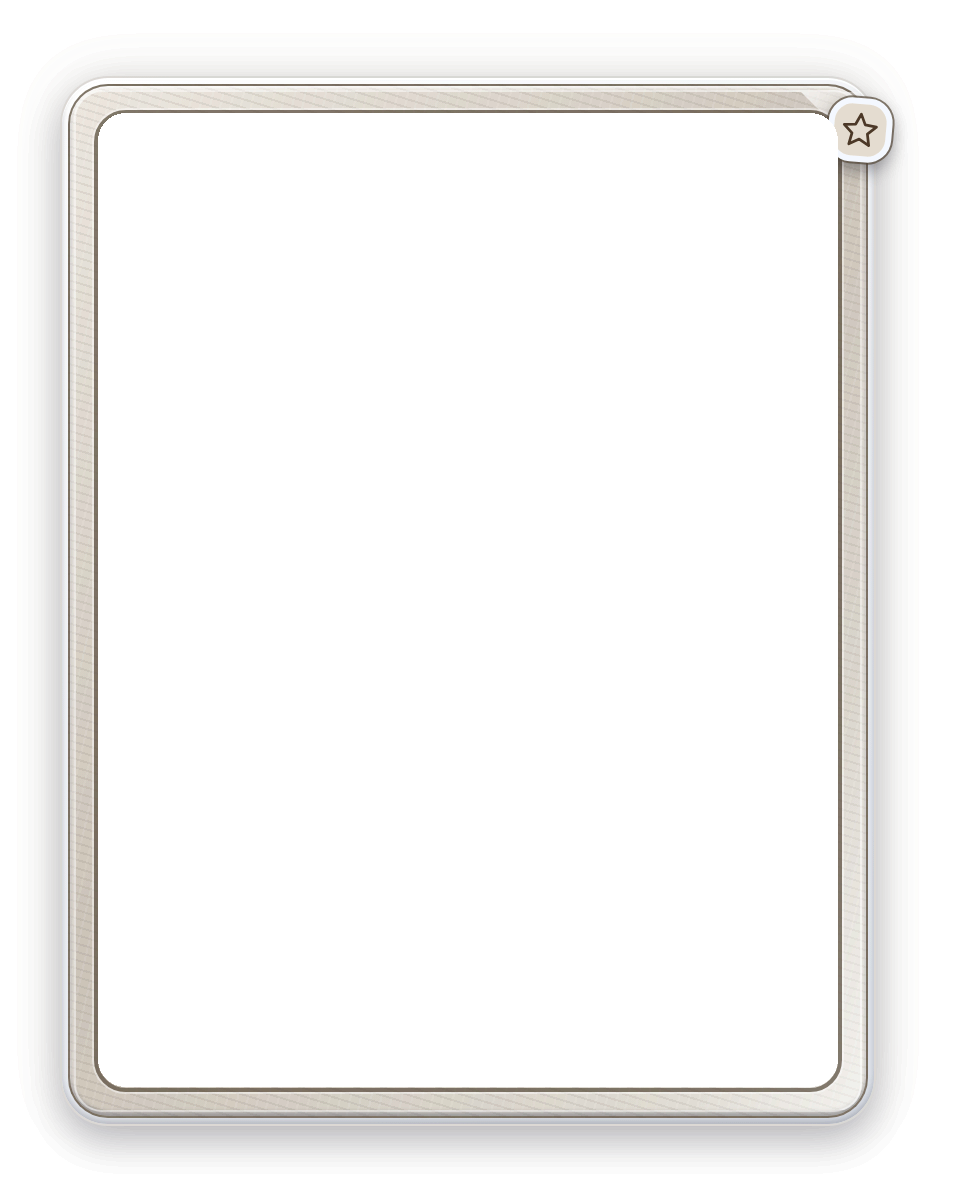
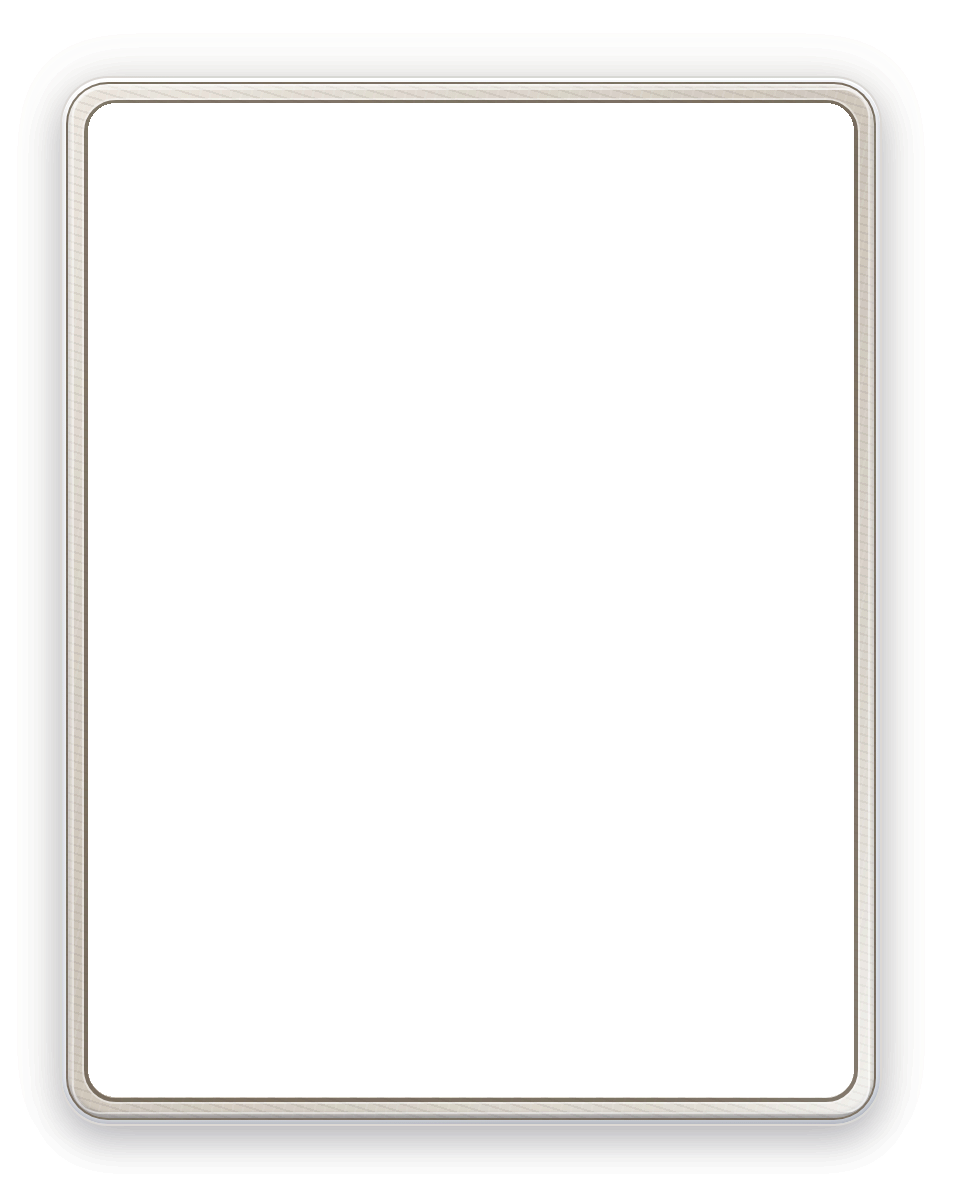
fix(web+og): drop the orphaned corner gleam, refresh the stale OG frames
The collectible rail kept a 30x30 square-cornered gleam triangle pinned
to its top-right (clip-path polygon, screen blend). The tier seal used
to sit on top of it; since the seal was dropped (72968f5) the gleam
reads as a defect: a bright wedge with hard edges crossing the keyline,
its right angle poking past the rounded corner. Remove it, and clip the
rail (overflow: clip) so no square-edged decoration can paint past the
curve again.

The bundled OG frame assets were exported before both the seal removal
and the slimmer-chrome pass, so share cards wore a corner badge and
chrome the site no longer has — and the export harness still imported
the deleted TierSeal atom, so it could not run. The harness now feeds
the window a stand-in art fill at the master ratio (the snug window
collapses without one), expected geometry follows the measured slimmer
chrome (aperture 766x994), and the composer derives its aperture fit
from the manifest instead of a hardcoded master height. Frames and
manifest regenerated from the fixed component.

Changed region(s): [[0.0625, 0.0617, 0.9375, 0.9558]]

diff --git a/web/scripts/og-frame-export.tsx b/web/scripts/og-frame-export.tsx
@@ -1,12 +1,11 @@
+import type { CSSProperties } from 'react'
 import { createRoot } from 'react-dom/client'
 import { FoilCard, FoilMedia } from '../src/atoms/foil-frame'
-import { TierSeal } from '../src/atoms/tier-seal'
 import '../src/index.css'
 
 const TIER_KEYS = ['paper', 'silver', 'holo', 'chrome', 'gold', 'prismatic', 'shiny'] as const
 const tierParam = new URLSearchParams(window.location.search).get('tier') ?? 'paper'
 const tierKey = TIER_KEYS.includes(tierParam as (typeof TIER_KEYS)[number]) ? tierParam : 'paper'
-const tierName = `${tierKey.slice(0, 1).toUpperCase()}${tierKey.slice(1)}`
 
 const exportStyles = document.createElement('style')
 exportStyles.textContent = `
@@ -29,7 +28,8 @@ exportStyles.textContent = `
     top: 37.5px;
     width: 420px;
   }
-  [data-slot="og-export-frame"] [data-slot="collectible-window"] {
+  [data-slot="og-export-frame"] [data-slot="collectible-window"],
+  [data-slot="og-export-frame"] [data-slot="collectible-art-link"] {
     background: transparent !important;
     box-shadow: 0 0 0 1px oklch(1 0 0 / 0.44);
   }
@@ -40,10 +40,14 @@ document.documentElement.dataset.theme = 'dark'
 createRoot(document.getElementById('root')!).render(
   <div data-slot="og-export-stage">
     <FoilCard tierKey={tierKey} presentation="collectible" rarityLadder data-slot="og-export-frame">
-      <FoilMedia
-        presentation="collectible"
-        seal={<TierSeal tierKey={tierKey} label={`${tierName} tier`} />}
-      />
+      <FoilMedia presentation="collectible">
+        {/* Stand-in for the art fill: the window wraps this ratio (the master aperture, 383x497 css,
+            picked so the whole card lands exactly on the 480x600 stage). */}
+        <span
+          data-slot="collectible-art-link"
+          style={{ '--meme-aspect': '383 / 497' } as CSSProperties}
+        />
+      </FoilMedia>
     </FoilCard>
   </div>,
 )

diff --git a/api/src/ogCard.ts b/api/src/ogCard.ts
@@ -9,9 +9,6 @@ export const MEME_OG_HEIGHT = 1200
 // The art window takes the media's own ratio, clamped like the web grid (1:2..2:1).
 const CARD_ASPECT_MIN = 0.5
 const CARD_ASPECT_MAX = 2
-// Longest aperture side; the master portrait frame's aperture height, so a
-// classic portrait meme still yields the familiar 960x1200 card.
-const APERTURE_FIT = 974
 
 export interface Rect {
   x: number
@@ -203,8 +200,11 @@ export function collectibleCardGeometry(
   }
   const raw = artWidth > 0 && artHeight > 0 ? artWidth / artHeight : 1
   const ratio = Math.min(CARD_ASPECT_MAX, Math.max(CARD_ASPECT_MIN, raw))
-  const apertureWidth = ratio >= 1 ? APERTURE_FIT : Math.round(APERTURE_FIT * ratio)
-  const apertureHeight = ratio >= 1 ? Math.round(APERTURE_FIT / ratio) : APERTURE_FIT
+  // The longest aperture side matches the master frame's, so a meme at the
+  // master's own ratio still yields the familiar 960x1200 card exactly.
+  const fit = Math.max(aperture.width, aperture.height)
+  const apertureWidth = ratio >= 1 ? fit : Math.round(fit * ratio)
+  const apertureHeight = ratio >= 1 ? Math.round(fit / ratio) : fit
   return {
     width: margins.left + apertureWidth + margins.right,
     height: margins.top + apertureHeight + margins.bottom,
@@ -218,8 +218,8 @@ export function collectibleCardGeometry(
   }
 }
 
-// 9-slice insets for reshaping the master frame overlay: corners (rounding,
-// star badge top-right) copy verbatim, the bands between them stretch.
+// 9-slice insets for reshaping the master frame overlay: the corner rounding
+// copies verbatim, the bands between the corners stretch.
 const FRAME_SLICE = { left: 220, top: 250, right: 290, bottom: 220 }
 
 function reshapeFrame(frame: JimpImage, width: number, height: number): JimpImage {

diff --git a/web/src/atoms/foil.css b/web/src/atoms/foil.css
@@ -279,6 +279,8 @@
     padding: 8px;
     border: 1px solid var(--collectible-keyline);
     border-radius: calc(var(--radius-lg) - 3px);
+    /* Square-edged decorations (the sheen sweep) must not paint past the rounded corner. */
+    overflow: clip;
     background-image: var(--collectible-grain), var(--collectible-rail);
     background-position: var(--collectible-background-position, 0 0, 0 0);
     background-size: var(--collectible-background-size, auto, 100% 100%);
@@ -286,20 +288,6 @@
       0 1px 1px oklch(1 0 0 / 0.72) inset,
       0 -2px 2px oklch(0.12 0.03 280 / 0.32) inset,
       0 0 0 2px oklch(1 0 0 / 0.34) inset;
-  }
-
-  .foil-media[data-presentation="collectible"] [data-slot="collectible-rail"]::before {
-    content: "";
-    position: absolute;
-    z-index: 2;
-    top: 3px;
-    right: 3px;
-    width: 30px;
-    height: 30px;
-    pointer-events: none;
-    background: linear-gradient(135deg, oklch(1 0 0 / 0.72), oklch(1 0 0 / 0.08));
-    clip-path: polygon(0 0, 100% 0, 100% 100%);
-    mix-blend-mode: screen;
   }
 
   .foil-media[data-presentation="collectible"] [data-slot="collectible-rail"]::after {
